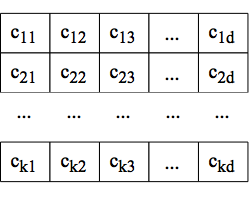
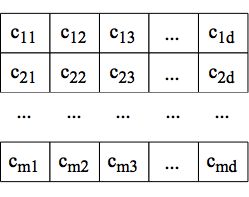
improving chapter 3, starting chapter 4

diff --git a/latex/chapter-3.tex b/latex/chapter-3.tex
@@ -1,23 +1,23 @@
 \chapter{Proposed Methodology}
 \label{chap:methodology}
-This chapter describes the proposed method to solve the MS-Mean problem, the most treated objective in data clustering. The designed method is based on a genetic algorithm (GA) with local improvements combined with mechanisms that allow the diversification (local minima escape) and the propagation of good solutions. In this method, the local improvement is done through the running of the k-means algorithm, which takes one candidate solution in the GA population as a starting point. In other words, the method may be defined as a multi-start k-means inside a GA framework, which in turn is guided by the MS-Mean objective.
+This chapter describes the proposed method to solve the MSSC problem, the most treated objective in data clustering. The designed method is based on a genetic algorithm (GA) with local improvements combined with mechanisms that allow the diversification (local minima escape) and the propagation of good solutions. In this method, the local improvement is done through the running of the k-means algorithm, which takes one candidate solution in the GA population as a starting point. In other words, the method may be defined as a multi-start k-means inside a GA framework, which in turn is guided by the MSSC objective.
 
 \section{General structure}
-The general scheme of the meta-heuristic here addressed is described by algorithm \ref{genetic-algo}. Initially, the method generates a random population of individuals. Then, it applies successively a number of operators to evolve this population. Firstly, it selects two parent individuals from the population and combines them by a crossover procedure, yielding to a new individual (offspring) that is added to the population. Secondly, the offspring is mutated and enhanced by a local search, generating a new individual solution that is also added to the population. These two steps -- crossover and mutation with enhancement -- are performed many times until a termination criteria is reached.
+The general scheme of the meta-heuristic here addressed is described by algorithm \ref{genetic-algo}. Initially, the method generates a random population of individuals. A population is a set of solutions, where each individual represents a point in a search space of the optimization problem. Then, it applies successively a number of operators to evolve this population. Firstly, it selects two parent individuals from the population and combines them by a crossover procedure, yielding to a new individual (offspring) that is added to the population. Secondly, the offspring is mutated and enhanced by a local search, generating a new individual solution that is also added to the population. These two steps -- crossover and mutation with enhancement -- are performed many times until a termination criteria is reached.
 
-In addition to the genetic operators mentioned above, two mechanisms -- one to select survivor individuals and the other to diversify the population -- are applied when some criteria are reached. These mechanisms allow the method to keep and propagate the best individuals and to introduce some diversification, respectively. The following sub-sections describes how these operators and mechanisms to evolve and manage the population of solutions work.
+In addition to the genetic operators mentioned above, two mechanisms -- one to select survivor individuals and the other to diversify the population -- are applied when pre-defined criteria are reached. These mechanisms allow the method to keep and propagate the best individuals and to introduce some diversification, respectively. The following sub-sections describes how these operators and mechanisms to evolve and manage the population of solutions work.
 
 \section{Solution representation}
-A solution (clustering partition) is represented by a direct encoding of the object-cluster assignment. The idea is to use a genetic encoding that allocates directly $n$ objects to $k$ clusters, such that each candidate solution consists of a $n$-vector ($n$ genes) with integer values in the interval [1, $k$]. Thus, for $n$ = 4 and $k$ = 3, the encoding (1,1,3,2) allocates the first and the second objects to cluster 1; the third object to cluster 3 and the fourth object to cluster 2, generating the partition (\{1,2\}, \{3\}, \{4\}).
+A solution (clustering partition) is represented by a direct encoding of the object-cluster assignment. The idea is to use a genetic encoding that allocates directly $n$ objects to $m$ clusters, such that each candidate solution consists of a $n$-vector ($n$ genes) with integer values in the interval [1, $m$]. Thus, for $n$ = 4 and $m$ = 3, the encoding (1,1,3,2) allocates the first and the second objects to cluster 1; the third object to cluster 3 and the fourth object to cluster 2, generating the partition (\{1,2\}, \{3\}, \{4\}).
 
 \begin{figure}[h]
   \begin{center}
     \includegraphics[width=0.3\textwidth]{img/assignment-encoding}
-    \caption{An example of the assignment encoding for $n$ = 4 and $k$ = 3}\label{fig:assignment-encoding}
+    \caption{An example of the assignment encoding for $n$ = 4 and $m$ = 3}\label{fig:assignment-encoding}
   \end{center}
 \end{figure}
 
-An encoding based on the centroids description is also considered in order to make the proposed crossover and mutation operations practicable. A centroids encoding defines a solution through the feature vectors existing in each centroid, being a matrix $C$ of size $k \times d$, where $k$ is the number of centroids (clusters) and $d$ is the number of features (see figure \ref{fig:centroids-encoding}). Thus, an entry $c_{ij}$ of $C$ corresponds to the value of the $j$-th feature of the $i$-th centroid ($i$ = 1 ... $k$; $j$ = 1 ... $d$).
+An encoding based on the centroids description is also considered in order to make the proposed crossover and mutation operations practicable. A centroids encoding defines a solution through the feature vectors existing in each centroid, being a matrix $C$ of size $m \times d$, where $m$ is the number of centroids (clusters) and $d$ is the number of features (see figure \ref{fig:centroids-encoding}). Thus, an entry $c_{ij}$ of $C$ corresponds to the value of the $j$-th feature of the $i$-th centroid ($i$ = 1 ... $m$; $j$ = 1 ... $d$).
 
 
 \begin{figure}[h]
@@ -40,9 +40,9 @@ An encoding based on the centroids description is also considered in order to ma
 \STATE Generate an individual $\theta'$ by mutating $\theta$ (mutation)
 \STATE Apply local search on $\theta'$
 \STATE Add $\theta$ and $\theta'$ to the population
-\IF{population size = $maxPop$}
+\IF{population size is equal to the maximum size $\eta$ of population}
 \STATE Select survivors
-\IF{best solution not improved for $itDiv$ iterations}
+\IF{best solution not improved for $I$ iterations}
 \STATE Diversify population
 \ENDIF
 \ENDIF
@@ -52,15 +52,15 @@ An encoding based on the centroids description is also considered in order to ma
 \end{algorithm}
 
 \section{Initial population}
-The first step in a GA is the generation of an initial population. It has been recognized that if the initial population of the GA is good, then the algorithm has a better possibility of finding a good solution \cite{Burke2004}, \cite{Zitzler2000}. Some factors can influence the initial population or should be taken into account when an initial population is generated randomly: the search space, the fitness function, the diversity, and the number of individuals \cite{DiazGomez2007}.
+The first step in a GA is the generation of an initial population. It has been recognized that if the initial population of the GA is good, then the algorithm has a better possibility of finding a good solution \cite{Burke2004, Zitzler2000}. Some factors can influence the initial population or should be taken into account when an initial population is generated randomly: the search space, the fitness function, the diversity, and the number of individuals \cite{DiazGomez2007}.
 
-In this work, the initial population is randomly generated, by assigning each object to a cluster according to a discrete uniform distribution, i.e., where each outcome is equally likely to happen. To compose the initial population, $\mu$ individuals are created. Then, each initial individual is submitted to a local search.
+In this work, the initial population is randomly generated, by assigning each object to a cluster according to a discrete uniform distribution, i.e., where each outcome is equally likely to happen. To compose the initial population, $\mu$ individuals are created. Then, each initial individual is submitted to the local search.
 
 \section{Individuals management}
 In order to increase the population and start the competitive process of evolution we need to keep introducing new individuals. The generation of a new individual (offspring) begins with the random selection of two parents, $p_1$ and $p_2$, which are submitted to a crossover procedure that generates a child individual $\theta$. Then, $\theta$ is added to the population. As highly fit solutions have more chances to be selected for reproduction, the offspring -- which combines characteristics from each parent -- is likely to have a good fitness. Thus, we also consider the mutation operator, which generates a new individual $\theta'$ that is similar to $\theta$ and tends to be good regarding the fitness.
 
 \subsection{Selection}
-The selection is the stage where individuals from the population are chosen to mate and generate a new individual. Due to the evolutionary behaviour of GA, the most likely individuals to be chosen for selection are the ones with good fitness. That way, the good genes can be propagated to generate good children solutions. In this work, the parent selection is done through a binary tournament, which randomly selects $w$ individuals (with uniform probability) from the population and keeps the one with the best fitness among the $w$ individuals to set the first parent. The fitness here considered is the value of the objective function (cost) of a solution. Then, the same selection scheme is performed to set the second parent.
+The selection is the stage where individuals from the population are chosen to mate and generate a new individual. Due to the evolutionary behaviour of GA, the most likely individuals to be chosen for selection are the ones with good fitness. That way, the good genes can be propagated to generate good children solutions. In the proposed method, the parent selection is done through a binary tournament, which randomly selects $w$ individuals (with uniform probability) from the population and keeps the one with the best fitness among the $w$ individuals to set the first parent. The fitness here considered is the value of the objective function (cost) of a solution. Then, the same selection scheme is performed to set the second parent.
 
 \subsection{Crossover}
 [Add image]
@@ -68,9 +68,9 @@ The selection is the stage where individuals from the population are chosen to m
 Once parent solutions $p_1$ and $p_2$ were selected, they should be submitted to a crossover procedure in order to produce a offspring (child) solution from them:
 
 \begin{enumerate}
-	\item Firstly, the minimum bipartite matching between centroids of $p_1$ and $p_2$ is calculated. One set of nodes in the matching problem is composed by the centroids of $p_1$ and the other set is composed by the centroids of $p_2$. The goal is to produce the one-to-one assignment of centroids from different sets, in such a way that the overall edges weight (distances) is minimized. This matching problem is solved by the Hungarian method and leads to $k$ pairs of centroids, where $k$ is the number of clusters (centroids).
+	\item Firstly, the minimum bipartite matching between centroids of $p_1$ and $p_2$ is calculated. One set of nodes in the matching problem is composed by the centroids of $p_1$ and the other set is composed by the centroids of $p_2$. The goal is to produce the one-to-one assignment of centroids from different sets, in such a way that the overall edges weight (distances) is minimized. This matching problem is solved by the Hungarian method \cite{Kuhn1955} and leads to $m$ pairs of centroids, where $m$ is the number of clusters (centroids).
 
-	\item For each pair of centroids resulted from the matching solution, one of them is randomly selected and set as a centroid of the offspring solution.
+	\item For each pair of centroids resulted from the minimum bipartite matching solution, one of them is randomly selected and set as a centroid of the offspring solution.
 
 	\item Finally, data points are assigned to the closest offspring centroid.
 \end{enumerate}
@@ -78,7 +78,7 @@ Once parent solutions $p_1$ and $p_2$ were selected, they should be submitted to
 \subsection{Mutation}
 [Add image]
 
-The mutation of a solution is done by a biased relocation of a centroid. This strategy proved effective as it introduces some drastic movement in one centroid position, allowing the overall solution to have considerable changes. The following items describe how the mutation works:
+The mutation of a solution is done by a biased relocation of a centroid. This strategy proved effective as it introduces some drastic movement in one centroid position, allowing the overall solution to have considerable changes that are not achieved by the local improvement. The following items describe how the mutation works:
 
 \begin{enumerate}
 
@@ -86,36 +86,46 @@ The mutation of a solution is done by a biased relocation of a centroid. This st
 	
 	\item Among the $m-1$ remaining centroids, re-assign each data point to the closest centroid.
 	
-	\item Randomly select the position of a data point and re-insert $c^{*}$ there. This position is selected as in a wheel roulette, such that data points far from their centroids are more likely to be chosen.
+	\item Randomly select the position of a data point $x_i$ and re-insert $c^{*}$ in the position of $x_i$. This position is selected as in a wheel roulette, such that data points far from their current centroids are more likely to be chosen.
 	
 	\item Among the $m$ resulting centroids, re-assign each data point to the closest centroid.
 		
 \end{enumerate}
 
+The mutation, in addition to generating a solution that is similar to the offspring -- which is typically a good solution due to elitism in parental selection -- also contributes significantly to the population diversity through the biased relocation of one centroid.
+
 \subsection{Local improvement}
-Once an offspring $\theta$ was generated by crossover, it is improved through a local search procedure. The local search aims to find a local optimal by applying local changes to the current solution. Here, the adopted local search is one run of the k-means algorithm. The k-means algorithm starts with an initial solution with $k$ centroids $c_1$, $c_2$, ..., $c_k$, and proceeds by alternating between two steps:
+After the generation process done by crossover and mutation, $\theta$ is improved through a local search procedure. The local search aims to find a local optimum by applying local changes to the current solution. Here, the adopted local search is one run of the k-means algorithm. The k-means starts with the initial solution $\theta'$ with $m$ centroids $c_1$, $c_2$, ..., $c_m$, and proceeds by alternating between two steps:
 
-\begin{itemize}
+\begin{enumerate}
 
-	\item Assignment step: Assign each data point to the closest cluster.
+	\item Assignment step: Assign each data point $x_i$ to the closest cluster $S_{k^{*}}$.
 	
-	[Formalize assignment step -- see k-means in Wikipedia]
-
-	\item Update step: Calculate the new centroids to be the mean (average) point of the data points in the new clusters.
+	\begin{equation}
+	S_{k^{*}}^{(t)} = \{ x_i: \left \| c_{k^{*}}^{(t)} - x_i \right \| \leq  \left \| c_{j}^{(t)} - x_i \right \|, \quad j = 1, ..., m \}
+	\end{equation}
 	
-	[Formalize assignment step -- see k-means in Wikipedia]
+	\item Update step: Calculate the new centroids $c_j$ to be the mean (average) point of the data points in the new clusters.
+	
+	\begin{equation}
+	c_{j}^{(t+1)} = \frac{1}{\left | S_{j}^{(t)} \right |} \sum_{x_i \in S_{j}^{(t)}} x_i, \quad j = 1, ..., m
+	\end{equation}
 		
-\end{itemize}
+\end{enumerate}
 
-Then the algorithm keeps repeating these two steps until the assignments no longer change, converging to a local optima.
+Then the algorithm keeps repeating these two steps until the assignments no longer change, converging to a local optimum.
 
-In our experiments, we used the k-means implementation of Greg Hamerly \cite{Hamerly2010}, who proposed an acceleration that gives the same answer of the standard Lloyd's k-means but is much faster in practice. This implementation avoids distance computations by using the triangle inequality and lower bounds on distances. The time per k-means iteration of the algorithm is O($ndk$+$dk^2$), where $n$ is the number of data points, $d$ is the number of data dimensions (features) and $k$ is the number of clusters. However, the calculated lower bounds allow to eliminate the innermost k-means loop in around 80\% of the time, which in practise is much faster than the standard k-means.
+In our experiments, we use the k-means implementation of Greg Hamerly \cite{Hamerly2010}, who proposed an acceleration that gives the same answer of the standard Lloyd's k-means \cite{Lloyd1982} but is much faster in practice. This implementation avoids distance computations by using the triangle inequality and lower bounds on distances. The time per k-means iteration of the algorithm is O($nmd$+$md^2$), where $n$ is the number of data points, $m$ is the number of clusters and $d$ is the number of data dimensions (features). However, the calculated lower bounds allow to eliminate the innermost k-means loop in around 80\% of the time, which in practise is much faster than the standard k-means.
 
 \section{Population management and termination}
-Two mechanisms were developed in order to complement the selection, crossover and local improvement operators: survivors selection and diversification management.
+One of the main challenges in population-based algorithms is avoiding premature convergence of the population. The selection of parents based on elitism tends to favour good individuals to mate, reducing the diversity of the genetic material in the coming generations of the population. In order to overcome this issue, we propose two mechanisms that preserve the good solutions and ensure the diversity. Thus, the search procedure can be lead to unexplored regions of the search space without losing promising individuals.
+
+We call these mechanisms to complement the selection, crossover and local improvement operators \textit{Survivors selection} and \textit{Diversification} management.
 
 \subsection{Survivors selection}
-The \textit{Survivors selection} aims to select the best individuals to propagate when the maximum population size is achieved. This procedure determines the $\mu$ individuals that will go on to the next generation, by discarding $\lambda$ individuals ($\lambda = maxPop - \mu$) that are either clones or bad regarding the fitness, according to algorithm \ref{survivors}.
+The \textit{Survivors selection} aims to select the best individuals to propagate when the maximum population size $\eta$ is achieved. This procedure determines the $\mu$ individuals that will go on to the next generation, by discarding $\lambda$ individuals ($\lambda = \eta - \mu$) that are either clones or bad regarding the fitness, according to algorithm \ref{survivors}.
+
+This characteristic of eliminating clones and poor solutions reveals two aspects of the \textit{Survivors selection} mechanism. The first one is that population diversity is somehow maintained, as we favour the removal of clones first. The second is related to elitism, as the individuals with good fitness are preserved. Other aspects related to diversity can be observed in mutation and diversification operators.
 
 \begin{algorithm}[H]
 \caption{Survivors selection}
@@ -133,9 +143,6 @@ The \textit{Survivors selection} aims to select the best individuals to propagat
 \end{algorithm}
 
 \subsection{Diversification management}
-The \textit{Diversification} mechanism aims to ensure the diversity of the population. It is called after the survivors selection whenever \textit{itDiv} iterations happen without improving the best solution. It is performed by creating $\beta$ new individuals as in the initialization phase, i.e., individuals are randomly generated and then submitted to local search.
-
-\section{Parameters}
-In preliminary experiments, we determined that the values $\mu$ = 20, $maxPop$ = 500, $itDiv$ = 400 and $itNoImprovement$ = 2000 produced good and stable results, where $\mu$ is the population size, $maxPop$ is the maximum size of population, $itDiv$ is the number of iterations without improvement that triggers diversification and $itNoImprovement$ is the number of iterations without improvement that causes the algorithm stop.
+The \textit{Diversification} mechanism aims to ensure the genetic diversity in a population. It is actually a complementary procedure to diversify the population of solutions, once the mutation carries the most important role regarding this matter. \textit{Diversification} is called after the survivors selection whenever $I$ iterations happen without improving the best solution. It is performed by creating $\beta$ new individuals as in the initialization phase, i.e., individuals are randomly generated and then submitted to local search. As this process introduces a significant amount of new genetic material, it allows the exploration of unvisited regions of the search space.
 
 \section{Computational complexity}

diff --git a/latex/chapter-2.tex b/latex/chapter-2.tex
@@ -23,7 +23,7 @@ The above classes of ad-hoc methods are not guided by a model, but by iterative 
 
 Due to these characteristics, it is difficult to assess if erratic results come from inappropriate methods, or from a data that does not intuitively leads to the result that we desire. In order to detect this kind of behaviour, some solutions have been designed to face data clustering from a model-oriented perspective, which means giving a formal definition of the clustering problem as an optimization problem, where clear objective functions and restrictions are set. Therefore, one can apply a method that minimizes/maximizes an objective function to solve the model.
 
-In this work, we aim to treat the clustering task as an optimization problem, where we can achieve near optimality regarding a specific objective. Thus, we consider a particular formulation for data clustering, the Minimum sum-of-squares clustering (MSSC). However, many formulations can be done to express a clustering task. Besides that, some optimization problems are more suitable for specific clustering tasks, or a specific data sets.
+In this work, we aim to treat the clustering task as an optimization problem, where we can achieve near optimality regarding a specific objective. Thus, we consider a particular formulation for data clustering, the Minimum sum-of-squares clustering (MSSC). However, many formulations can be done to express a clustering task. Besides that, some optimization problems are more suitable for specific clustering tasks, or specific data sets.
 
 \section{The MSSC problem}
 The MSSC problem has been extensively studied in the literature for data clustering, possibly because this is the natural model which is addressed by the k-means algorithm. In the MSSC problem we aim to minimize the total sum of the distances of each data point to the mean point in its cluster. It considers as an assumption a given set $X$ of $n$ data points in a $d$-dimensional space $\mathbb{R}^d$ \cite{Bagirov2006}:
@@ -34,7 +34,7 @@ $X = \{x_1, x_2, ..., x_n\}$, where $x_i \in \mathbb{R}^d, \quad i = 1, ..., n.$
 
 Then, if we consider $S$ as the set of all possible subsets obtained from elements in $X$, the clustering procedure must generate a partition $\bar{S}$ of $S$ with $m$ subsets $S_k \in S (S_k \neq \emptyset)$, where $m$ is the number of desired clusters and $k = \{1,...,\left | S \right |\}$. In other words, a clustering algorithm aims to generate a partition that groups data consistently, with most similar objects belonging to the same group and dissimilar objects belonging to different groups.
 
-In order to define the similarity between two objects, a function $d$ assigns to each pair $(x_i, x_j)$ a distance or similarity metric $d_{ij} \in \mathbb{R}$, where $d_{ij} \geq 0, d_{ii} = 0, d_{ij} = d_{ji}$, for $i, j = 1, ... ,n$. The set of objects $x_i \in X$ can be described as a matrix $x_{iq}$, with $q = \{1,...,d\}$, where $x_{iq}$ is the value of the $q$-th feature for the $i$-th data object and $d$ is the number of features. The assignment is done in such a way that the greater is the similarity (proximity) within a cluster and the greater is the difference between clusters, the better is the clustering. There is a variety of distance measures to characterize how similar are two objects or patterns. A popular one in the domain of data mining is the Euclidean distance, that can often be used to reflect the similarity between two patterns when considering multiple dimensions (features) \cite{Jain1999}:
+In order to define the similarity between two objects, a function $d$ assigns to each pair $(x_i, x_j)$ a distance or similarity metric $d_{ij} \in \mathbb{R}$, where $d_{ij} \geq 0, d_{ii} = 0, d_{ij} = d_{ji}$, for $i, j = 1, ... ,n$. The set of objects $x_i \in X$ can be described as a matrix $X'_{n \times d}$, with $q = \{1,...,d\}$, where an entry $x_{iq}$ is the value of the $q$-th feature for the $i$-th data object and $d$ is the number of features. The assignment is done in such a way that the greater is the similarity (proximity) within a cluster and the greater is the difference between clusters, the better is the clustering. There is a variety of distance measures to characterize how similar are two objects or patterns. A popular one in the domain of data mining is the Euclidean distance, that can often be used to reflect the similarity between two patterns when considering multiple dimensions (features) \cite{Jain1999}:
 
 \begin{equation}
 d_{ij} = \sqrt{\sum_{q=1}^{d}(x_{iq} - x_{jq})^2} = \left \| x_i - x_j \right \|
@@ -45,10 +45,6 @@ Thus, given a distance matrix $d_{ij}$, the MSSC problem can be formulated as th
 \begin{equation} \label{eq:of}
 \textrm{Minimize} \sum_{k=1}^{\left | S \right |}c_ky_k
 \end{equation}
-
-%\begin{equation}
-%\sum_{i=1}^{N}\sum_{k=1}^{\left | S \right |}a_{ik}y_k = 1
-%\end{equation}
 
 \begin{equation}
 \sum_{k=1}^{\left | S \right |}a_{ik}y_k = 1, \quad \forall i
@@ -77,6 +73,21 @@ y_k \in \{0,1\}, \quad \forall k
 \subsection{Computational complexity}
 
 \subsection{Solution techniques}
+Many solution techniques were developed in recent years to solve the MSSC problem. These techniques can be separated into different categories, based on their exact or heuristic nature, whether they are deterministic or probabilistic, whether they process complete solutions or construct solutions during the search, and finally whether they maintain a single candidate solution or have a population of solutions \cite{Das2009}. This range of methods includes construction methods and local searches, which aims to repeatedly seek for better solutions according to some fitness; meta-heuristic algorithms; and mathematical programming techniques. In this section, we review some techniques and previous works that have been designed for the resolution of the MSSC problem.
+
+The work of Hansen \cite{Hansen2001} proposed a local search called J-MEANS for solving the MSSC problem. The neighbourhood of a current solution is defined by all possible centroid-to-object relocations followed by corresponding changes of assignments. Thus, a move in J-MEANS corresponds to replacing an existing centroid $x_i$ by a data point $x_j$. The move is done by selecting the pair of indices ($i$, $j$) that brings the highest gain in the objective function. Finally, the centroid $x_i$ is replaced by $x_j$ and the corresponding assignment updates are done. Moves are made in these neighbourhoods whenever the value of a neighbour's objective function is better than the current solution, until a local optimum is reached. As the J-MEANS is a general local search, it is also applied to fit into meta-heuristics as the Variable Neighbourhood Search (VNS). The J-MEANS local search seems to work well in some problem instances where the number of clusters is large, so that data points could be centroids of some clusters in the current solution.
+
+Recently, different incremental algorithms have been developed to address the choice of initial solutions in the k-means algorithm. Incremental clustering algorithms start from an initial solution with $k - 1$ centers for the ($k - 1$)-clustering problem and attempt to optimally add one new cluster by placing the $k-$th center in an appropriate position. The global k-means \cite{Likas2003} is an incremental algorithm that solves the MSSC problem by considering each data point as a candidate for the $k-$th cluster center.
+
+A modified version of the global k-means (MGKM) proposed by \cite{Bagirov2008} tackles the MSSC by producing initial solutions through the resolution of an auxiliary clustering problem, rather then testing all data points as candidate centers. Experimental results demonstrate that MGKM is able to find better solutions than the global k-means, although it requires more computational effort.
+ 
+The work of Ordin and Bagirov \cite{Ordin2014} considered the MSSC as a global optimization problem and introduced a new algorithm to improve the accuracy of MGKM. The method is an adaptation of MGKM that produces a set of initial solutions that undergo k-means, rather than considering only one initial solution at each k-means stage. The proposed method was applied on 16 real-world data sets and experiments shown that it is more accurate than MGKM.
+
+More recently, \cite{Bagirov2016} presented an incremental algorithm based on the difference of convex representations for solving the MSSC problem, where a method is designed to solve non-smooth optimization problems at each iteration of the incremental algorithm. Large data sets ranging from tens to hundreds of thousands data points are used, and results show that this approach is efficient for solving large data sets when compared to previous incremental algorithms like MGKM and global k-means.
+
+Many authors proposed some hybrid methods, that combine both classical algorithms with meta-heuristics. \cite{Krishna1999} and \cite{Lu2004} uses k-means as a search operator inside a genetic algorithm (GA) on the MSSC problem, in such a way that each GA candidate solution is used as a starting point for k-means. Thus, k-means assumes the role of a local search inside a broader optimization process guided by the GA.
+
+The work of Festa \cite{Festa2013} has also treated the MSSC problem with emphasis on combinatorial optimization perspective. The proposed approach considers a biased random-key genetic algorithm (BRKGA), which was applied to biological data clustering. In random-key genetic algorithm (RKGA), candidate solutions are represented as vectors of randomly generated real numbers in the interval (0, 1]. Each vector can thus be associated to a solution in the combinatorial optimization problem, for which an objective value or fitness can be computed. To evolve the population of solutions, additional individuals are produced in order to complete the new population. This is done by crossing parent solutions. The fundamental difference between BRKGA and RKGA resides in the way parents are selected for crossing. RKGA uses any two solutions to produce a child individual, once BRKGA crosses a elite solution (good regarding fitness) with a non-elite to produce a child.
 
 %\subsection{Construction and local search}
 

diff --git a/latex/chapter-4.tex b/latex/chapter-4.tex
@@ -1,7 +1,59 @@
 \chapter{Computational Experiments and Analysis}
 
 \section{Instances}
+The selection of instances was done in order to cover different types of data, considering both the instance size and the number of features. Table \ref{instances} summarizes the characteristics of these instances, which are important benchmarks in recent clustering literature, as reported in \cite{Ordin2014} and \cite{Bagirov2016}.
+
+\begin{table}[]
+\centering
+\begin{tabular}{@{}lcc@{}}
+\toprule
+Instance                        & Number of data points & Number of features \\ \midrule
+German towns                    & 59                    & 2                  \\
+Bavaria postal 1                & 89                    & 3                  \\
+Bavaria postal 2                & 89                    & 4                  \\
+Fisher’s Iris Plant             & 150                   & 4                  \\
+Heart Disease                   & 297                   & 13                 \\
+Liver Disorders                 & 345                   & 6                  \\
+Ionosphere                      & 351                   & 34                 \\
+Congressional Voting Records    & 435                   & 16                 \\
+Breast Cancer                   & 683                   & 9                  \\
+Pima Indians Diabetes           & 768                   & 8                  \\
+TSPLIB1060                      & 1060                  & 2                  \\
+Image Segmentation              & 2310                  & 19                 \\
+TSPLIB3038                      & 3038                  & 2                  \\
+Page Blocks                     & 5473                  & 10                 \\
+Pendigit                        & 10992                 & 16                 \\
+Gas sensor                      & 13910                 & 128                \\
+EEG eye state                   & 14980                 & 14                 \\
+D15112                          & 15112                 & 2                  \\
+Letters                         & 20000                 & 16                 \\
+KEGG metabolic relation network & 53413                 & 20                 \\
+Shuttle control                 & 58000                 & 9                  \\
+Pla85900                        & 85900                 & 2                  \\
+Skin Segmentation               & 245057                & 3                  \\
+3D road network                 & 434874                & 3                  \\ \bottomrule
+\end{tabular}
+\caption{Instances description}
+\label{instances}
+\end{table}
 
 \section{Parameters calibration}
+As in most meta-heuristics, the values chosen for parameters directly affect the quality of the results. In this work, we consider five main parameters: $\mu$ (the population size), $\eta$ (the maximum size of population), $\beta$ (the number of new individuals created in the diversification), $I$ (the number of iterations without improvement that triggers diversification) and $itNoImprovement$ (the number of iterations without improvement that causes the algorithm stop).
+
+In preliminary experiments, we started with the following configuration, as they produced good and stable results: $\mu$ = 30, $\eta$ = 400, $\beta$ = 5, $I$ = 400 and $itNoImprovement$ = 2000. From this baseline, we expanded the range of these value. Table \ref{calibration} presents the tested values for each parameter and the final values achieved after running each combination in XX instances.
+
+\begin{table}[H]
+\centering
+\begin{tabular}{@{}llcc@{}}
+\toprule
+\multicolumn{2}{l}{Parameter}                                                                                                    & Tested values   & Final value \\ \midrule
+$\mu$         & Population size                                                                                                  & \{20, 30, 50\}    & 30               \\
+$\beta$       & Number of new individuals in \textit{Diversification}                                                                     & \{5, 10, 20\}     & 5                \\
+$\eta$ & Maximum size of population                                                                                       & \{200, 400, 800\} & 400              \\
+$I$         & \begin{tabular}[c]{@{}l@{}}Number of iterations without improvement\\ that triggers \textit{Diversification}\end{tabular} & \{200, 400, 800\} & 400              \\ \bottomrule
+\end{tabular}
+\caption{Parameters calibration}
+\label{calibration}
+\end{table}
 
 \section{Results}

diff --git a/latex/main.tex b/latex/main.tex
@@ -4,7 +4,6 @@
   msc
 ]{ThesisPUC}
 
-
 %%%
 %%% Additional Packages
 %%%
@@ -34,7 +33,7 @@
 \usepackage{textcomp}
 \usepackage{algorithm}
 \usepackage{algorithmic}
-  
+
 %\usepackage{etoolbox}
 
 \DeclareGraphicsExtensions{.png, .pdf}

diff --git a/latex/abrevs.tex b/latex/abrevs.tex
@@ -3,7 +3,7 @@
 
   \noindent
   \begin{tabular}{ll}
-    MSS -- Minimum sum-of-squares\\
+    MSSC -- Minimum sum-of-squares clustering\\
     GA -- Genetic algorithm\\
   \end{tabular}
   
